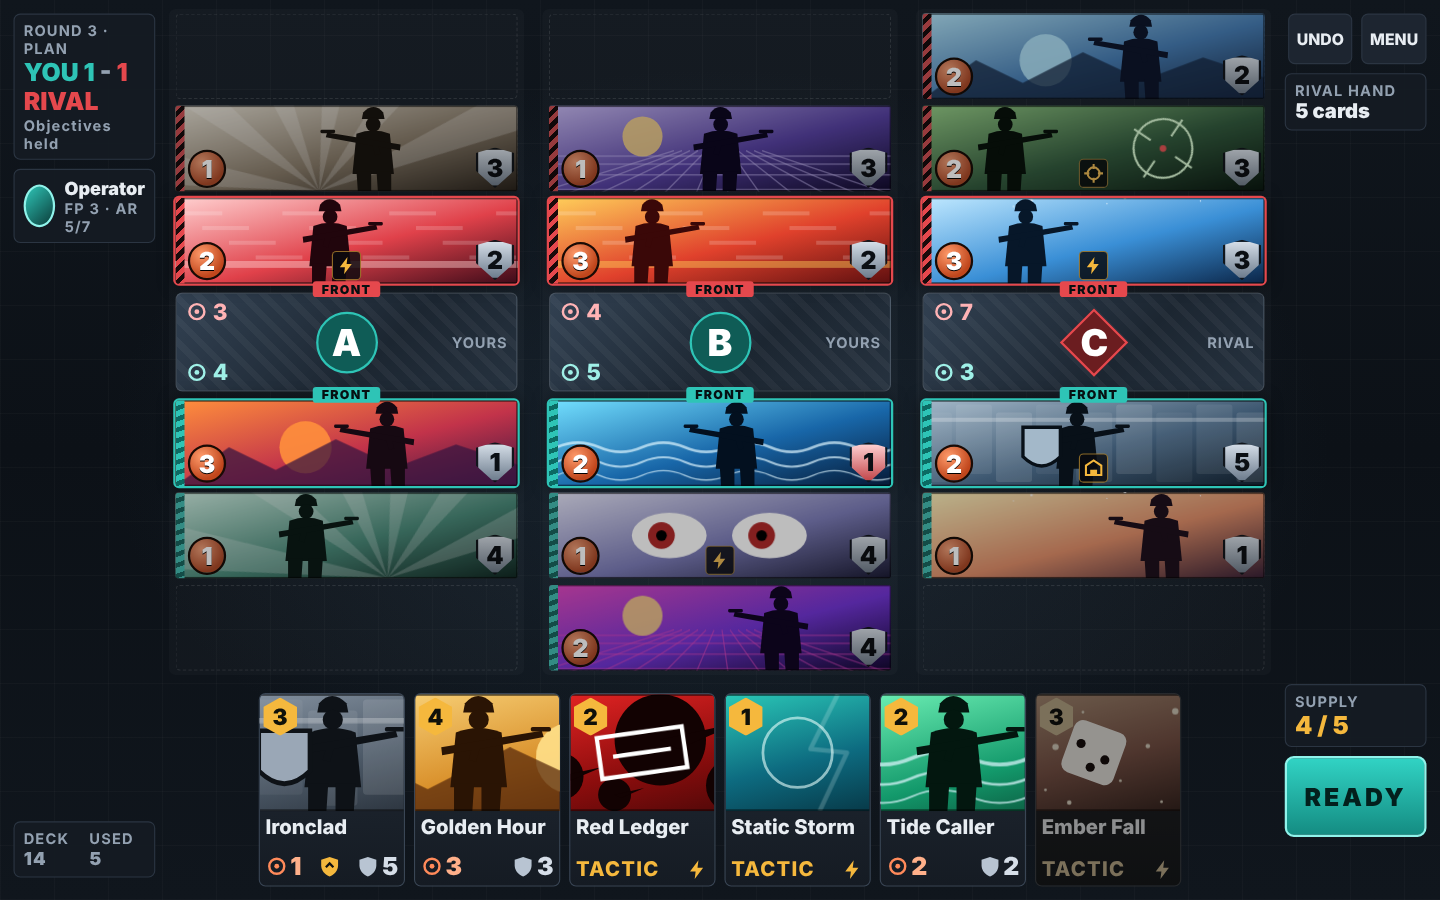
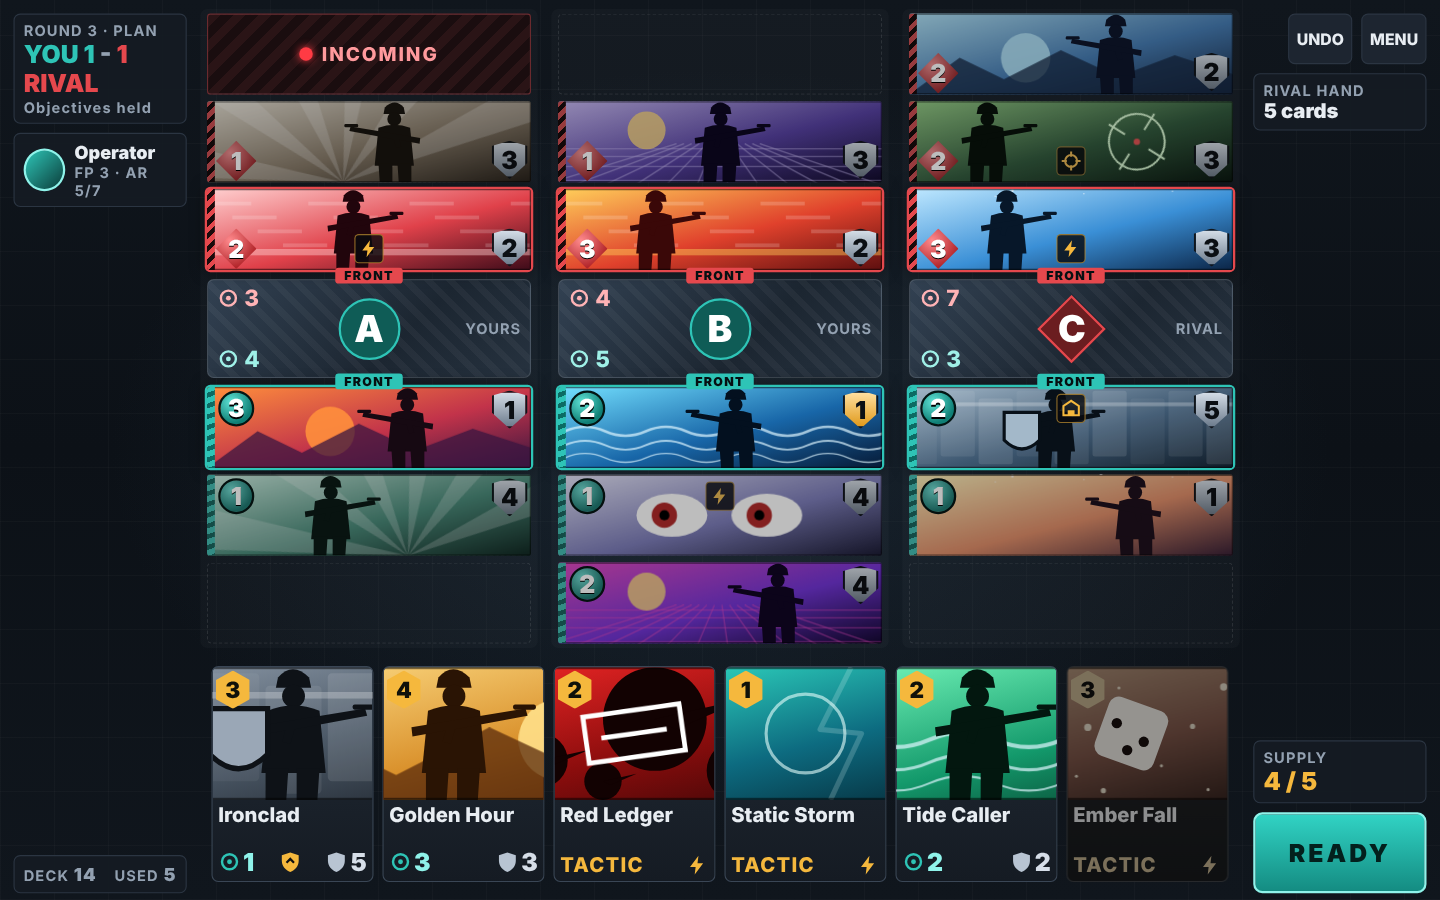
WIP: KillingCard UX mock-up and CardZone clarity pass in progress
Claude-Session: https://claude.ai/code/session_01JmVwVgoeVTdNBC1RfBf5V4

diff --git a/projects/killingcard/documentation/ux/mockup/index.html b/projects/killingcard/documentation/ux/mockup/index.html
@@ -42,7 +42,7 @@ body.chrome #stage { outline: 1px solid var(--line); }
 .slotbox .fl { position: absolute; left: 50%; transform: translateX(-50%); font: 700 11px var(--ui); letter-spacing: .12em; color: rgba(255,255,255,.28); }
 .drop { position: absolute; border-radius: 6px; border: 2px solid transparent; transition: border-color .15s, background .15s; }
 .drop.valid { border-color: rgba(46,196,182,.75); background: rgba(46,196,182,.07); cursor: pointer; }
-.drop.valid::after { content: "PLAY HERE"; position: absolute; right: 6px; bottom: 4px; font: 800 12px var(--ui); letter-spacing: .1em; color: var(--you); }
+.drop.valid::after { content: attr(data-label); position: absolute; right: 6px; bottom: 4px; font: 800 12px var(--ui); letter-spacing: .1em; color: var(--you); }
 
 /* ---- objective ---- */
 .obj { position: absolute; border-radius: 6px; overflow: hidden; border: 1px solid rgba(255,255,255,.14);
@@ -69,9 +69,10 @@ body.chrome #stage { outline: 1px solid var(--line); }
 .side-you { --sidec: var(--you); } .side-rival { --sidec: var(--rival); }
 .banner .ftab { position: absolute; left: 50%; transform: translateX(-50%); background: var(--sidec); color: #061012; font-weight: 900; letter-spacing: .1em; display: flex; align-items: center; justify-content: center; border-radius: 3px; }
 .badge { position: absolute; display: flex; align-items: center; justify-content: center; font-weight: 900; color: #fff; text-shadow: 0 1px 0 #000; z-index: 2; }
-.badge.fp { background: radial-gradient(circle at 35% 30%, #ff9b6b, #c0461c 70%); border: 2px solid #1a0b05; border-radius: 50%; }
+.badge.fp { background: radial-gradient(circle at 35% 30%, #5fe3d6, #0f7f75 70%); border: 2px solid #031614; border-radius: 50%; }
+.side-rival .badge.fp { background: radial-gradient(circle at 35% 30%, #ff8a8d, #b3262b 70%); border: none; border-radius: 0; clip-path: polygon(50% 0, 100% 50%, 50% 100%, 0 50%); }
 .badge.ar { background: linear-gradient(180deg, #d4dde7, #6d7c8d); color: #0b0f14; text-shadow: none; border: 2px solid #11161c; clip-path: polygon(50% 0, 100% 14%, 100% 58%, 50% 100%, 0 58%, 0 14%); border-radius: 0; }
-.badge.ar.hurt { background: linear-gradient(180deg, #ffd0d1, #c2474b); }
+.badge.ar.hurt { background: linear-gradient(180deg, #ffe0a0, #e09a1c); }
 .kws { position: absolute; left: 50%; transform: translateX(-50%); display: flex; gap: 3px; z-index: 2; }
 .kw { display: flex; align-items: center; justify-content: center; background: rgba(8,10,14,.82); border: 1px solid rgba(245,184,61,.55); border-radius: 4px; color: var(--amber); }
 .kw svg { width: 76%; height: 76%; }
@@ -151,6 +152,7 @@ body.chrome #stage { outline: 1px solid var(--line); }
 <body class="chrome">
 <div id="toolbar">
   <div class="grp"><span class="lbl">Screen</span><button data-size="phone">Phone 844x390</button><button data-size="desktop">Desktop 1440x900</button></div>
+  <div class="grp"><span class="lbl">Rows</span><button data-rows="3">3 per side</button><button data-rows="4">4 per side</button></div>
   <div class="grp"><span class="lbl">Hand</span><button data-hand="A">A: centred crop</button><button data-hand="B">B: banner stripe</button></div>
   <div class="grp"><span class="lbl">Demo</span>
     <button data-demo="select">Select card</button>
@@ -174,18 +176,24 @@ const LAYOUTS = {
   phone: { dev: [844, 390], W: 1168, H: 540, bw: 208, bh: 52, rowGap: 4, rows: 3, objH: 64, colGap: 20, top: 6, midGap: 6,
     handGap: 8, handH: 116, cw: 92, ch: 116, cardGap: 4, badge: 26, bfont: 18, kw: 20, ftab: [44, 12, 9],
     hex: [24, 28, 16], artH: 70, nameF: 16, statF: 18, sicon: 16, raise: 0, railFont: 16, focusW: 560, zoomW: 512 },
-  desktop: { dev: [1440, 900], W: 1280, H: 800, bw: 304, bh: 76, rowGap: 6, rows: 3, objH: 88, colGap: 28, top: 12, midGap: 8,
-    handGap: 12, handH: 180, cw: 130, ch: 172, cardGap: 8, badge: 34, bfont: 22, kw: 26, ftab: [60, 14, 11],
-    hex: [30, 34, 20], artH: 104, nameF: 18, statF: 22, sicon: 20, raise: 0, railFont: 16, focusW: 620, zoomW: 512 }
+  desktop: { dev: [1440, 900], W: 1280, H: 800, bw: 288, bh: 72, rowGap: 6, rows: 3, objH: 88, colGap: 24, top: 12, midGap: 8,
+    handGap: 12, handH: 200, cw: 144, ch: 192, cardGap: 8, badge: 32, bfont: 22, kw: 26, ftab: [60, 14, 11],
+    hex: [30, 34, 20], artH: 118, nameF: 18, statF: 22, sicon: 20, raise: 0, railFont: 16, focusW: 620, zoomW: 512 }
 };
+// 4 rows per side (Killstreak's zone_capacity 4, card-system.md 4.2): everything shrinks to fit.
+LAYOUTS.phone4 = Object.assign({}, LAYOUTS.phone, { rows: 4, bw: 176, bh: 44, rowGap: 3, objH: 54, top: 4, midGap: 4, handGap: 6, handH: 98,
+  cw: 78, ch: 98, badge: 22, bfont: 16, kw: 18, ftab: [40, 11, 8], hex: [22, 26, 15], artH: 56, nameF: 16, statF: 16, sicon: 14 });
+LAYOUTS.desktop4 = Object.assign({}, LAYOUTS.desktop, { rows: 4, bw: 256, bh: 64, rowGap: 5, objH: 80, top: 12, midGap: 8, handGap: 10, handH: 140,
+  cw: 108, ch: 140, badge: 28, bfont: 20, kw: 22, artH: 82, nameF: 16, statF: 18, sicon: 16 });
 const P = new URLSearchParams(location.search);
+let rows = P.get("rows") === "4" ? 4 : 3;
 let size = P.get("size") === "desktop" ? "desktop" : "phone";
 let handOpt = P.get("hand") === "B" ? "B" : "A";
 if (P.get("chrome") === "0") document.body.classList.remove("chrome");
 let L;
 
 function geom() {
-  const g = LAYOUTS[size];
+  const g = Object.assign({}, LAYOUTS[size + (rows === 4 ? "4" : "")]);
   const sideH = g.rows * g.bh + (g.rows - 1) * g.rowGap;
   g.rivalTop = g.top; g.objY = g.top + sideH + g.midGap; g.youTop = g.objY + g.objH + g.midGap;
   g.youBottom = g.youTop + sideH; g.handY = g.youBottom + g.handGap;
@@ -306,6 +314,7 @@ const INIT = () => ({
     { id: "C", rival: ["r5", "r6", "r7"], you: ["y6", "y7"] }
   ],
   hand: ["h1", "h2", "h3", "h4", "h5", "h6"],
+  incoming: [{ col: 0, side: "rival" }],
   sel: null
 });
 let S = INIT();
@@ -326,13 +335,14 @@ function bannerEl(id, side, w, h) {
   const art = el("div", "art", null, artSVG(c.art)); sc.appendChild(art);
   art.appendChild(el("div", "shine"));
   sc.appendChild(el("div", "spine", { width: px(Math.round(h * .1)) }));
-  const bs = g.badge, inset = 3;
+  const bs = g.badge, inset = 3, inner = side === "you" ? "top" : "bottom"; // stats sit on the inner edge (facing the objective), card-system.md 3.4
   if (c.type === "unit") {
-    sc.appendChild(el("div", "badge fp", { width: px(bs), height: px(bs), left: px(Math.round(h * .1) + inset), bottom: px(inset), fontSize: px(g.bfont) }, c.fp));
-    sc.appendChild(el("div", "badge ar" + (c.ar < c.max ? " hurt" : ""), { width: px(bs), height: px(bs + 2), right: px(inset), bottom: px(inset), fontSize: px(g.bfont) }, c.ar));
+    const fpS = side === "rival" ? bs + 4 : bs;
+    const fpb = el("div", "badge fp", { width: px(fpS), height: px(fpS), left: px(Math.round(h * .1) + inset - (fpS - bs) / 2), fontSize: px(g.bfont) }, c.fp); fpb.style[inner] = px(inset - (fpS - bs) / 2); sc.appendChild(fpb);
+    const arb = el("div", "badge ar" + (c.ar < c.max ? " hurt" : ""), { width: px(bs), height: px(bs + 2), right: px(inset), fontSize: px(g.bfont) }, c.ar); arb.style[inner] = px(inset); sc.appendChild(arb);
   }
   if (c.kws.length) {
-    const k = el("div", "kws", { bottom: px(inset) });
+    const k = el("div", "kws"); k.style[inner] = px(inset + (bs - g.kw) / 2);
     c.kws.forEach(n => k.appendChild(el("div", "kw", { width: px(g.kw), height: px(g.kw) }, ico(n, g.kw))));
     sc.appendChild(k);
   }
@@ -340,7 +350,7 @@ function bannerEl(id, side, w, h) {
   ft.style[side === "you" ? "top" : "bottom"] = px(-g.ftab[1] + 2);
   ft.style.display = "none"; ft.className += " ftab"; sc.appendChild(ft);
   sc.appendChild(el("div", "animdot"));
-  sc.appendChild(el("div", "nametag", { fontSize: px(14) }, `${c.name} <span style="color:var(--muted)">${c.type === "unit" ? "Unit" : "Tactic"}${c.kws.includes("pick") ? " - Pick" : ""}${c.kws.includes("protector") ? " - Protector" : ""}</span>`));
+  sc.appendChild(el("div", "nametag", { fontSize: px(14) }, `${c.name} <span style="color:var(--muted)">· ${c.type === "unit" ? "Unit" : "Tactic"}${c.kws.includes("pick") ? " - Pick" : ""}${c.kws.includes("protector") ? " - Protector" : ""}</span>`));
   attachPress(b, () => openFocus(id, side), null);
   b.addEventListener("mouseenter", () => { if (size !== "desktop" || b.classList.contains("ghost")) return; b._ht = setTimeout(() => hoverOn(b), 120); });
   b.addEventListener("mouseleave", () => { clearTimeout(b._ht); hoverOff(b); });
@@ -371,10 +381,11 @@ function render() {
   L = geom();
   stage.style.width = px(L.dev[0]); stage.style.height = px(L.dev[1]);
   canvas.style.width = px(L.W); canvas.style.height = px(L.H); canvas.style.transform = `scale(${L.scale})`;
-  if (!canvas._built || canvas._built !== size) { canvas.innerHTML = ""; els.clear(); buildStatic(); canvas._built = size; }
+  if (!canvas._built || canvas._built !== size + rows) { canvas.innerHTML = ""; els.clear(); buildStatic(); canvas._built = size + rows; }
   layoutUnits();
   renderHand();
   document.querySelectorAll("#toolbar [data-size]").forEach(b => b.classList.toggle("on", b.dataset.size === size));
+  document.querySelectorAll("#toolbar [data-rows]").forEach(b => b.classList.toggle("on", +b.dataset.rows === rows));
   document.querySelectorAll("#toolbar [data-hand]").forEach(b => b.classList.toggle("on", b.dataset.hand === handOpt));
 }
 
@@ -390,7 +401,7 @@ function buildStatic() {
       canvas.appendChild(sb);
     }
     const o = el("div", "obj", { left: px(x), top: px(g.objY), width: px(g.bw), height: px(g.objH) });
-    o.id = "obj" + i; canvas.appendChild(o);
+    o.id = "obj" + i; canvas.appendChild(o); attachPress(o, () => openObjective(i), null);
     const d = el("div", "drop", { left: px(x - 6), top: px(g.youTop - 4), width: px(g.bw + 12), height: px(g.youBottom - g.youTop + 8) });
     d.id = "drop" + i; d.addEventListener("click", () => { if (S.sel) playCard(S.sel, i); });
     canvas.appendChild(d);
@@ -405,7 +416,7 @@ function buildStatic() {
     <div class="box" style="display:flex;gap:8px;align-items:center"><div style="width:${f * 2.4}px;height:${f * 2.4}px;border-radius:50%;background:linear-gradient(135deg,#2ec4b6,#0b3d3a);border:2px solid #8ff3ea"></div>
       <div><div class="v" style="font-size:${f}px">Operator</div><div class="k" style="font-size:${f - 3}px">FP 3 · AR 5/7</div></div></div>`;
   canvas.appendChild(left);
-  const leftB = el("div", "rail", { left: px(12), top: px(g.handY + g.handH - (f * 3.6)), width: px(lw) });
+  const leftB = el("div", "rail", { left: px(12), bottom: px(6), width: px(lw) });
   leftB.innerHTML = `<div class="box" style="display:flex;justify-content:space-between"><span class="k" style="font-size:${f - 3}px">DECK <b class="v" style="font-size:${f}px">14</b></span><span class="k" style="font-size:${f - 3}px">USED <b class="v" style="font-size:${f}px">5</b></span></div>`;
   canvas.appendChild(leftB);
   const rx = g.x0 + g.boardW + 18;
@@ -413,7 +424,7 @@ function buildStatic() {
   right.innerHTML = `<div style="display:flex;gap:8px;justify-content:flex-end"><div class="btn-sm" style="width:${f * 3.6}px;height:${Math.max(44, f * 2.8)}px;font-size:${f - 2}px">UNDO</div><div class="btn-sm" style="width:${f * 3.6}px;height:${Math.max(44, f * 2.8)}px;font-size:${f - 2}px">MENU</div></div>
     <div class="box"><div class="k" style="font-size:${f - 3}px">RIVAL HAND</div><div class="v" style="font-size:${f + 2}px">5 cards</div></div>`;
   canvas.appendChild(right);
-  const rb = el("div", "rail", { left: px(rx), top: px(g.handY), width: px(g.W - rx - 12) });
+  const rb = el("div", "rail", { left: px(rx), bottom: px(6), width: px(g.W - rx - 12) });
   rb.innerHTML = `<div class="box"><div class="k" style="font-size:${f - 3}px">SUPPLY</div><div class="v" style="font-size:${f + 6}px;color:var(--amber)">4 / 5</div></div>
     <div class="btn-ready" style="height:${size === "phone" ? 64 : 72}px;font-size:${f + 6}px">READY</div>`;
   canvas.appendChild(rb);
@@ -444,6 +455,14 @@ function layoutUnits() {
       <div class="pw y" style="font-size:${g.bfont - 2}px">${ico("fp", g.bfont - 2, "#9ff0e7")} ${yp}</div>
       <div class="ctl" style="font-size:${size === "phone" ? 12 : 13}px">${ctl === "you" ? "YOURS" : ctl === "rival" ? "RIVAL" : "CONTESTED"}</div>`;
   });
+  canvas.querySelectorAll(".incoming").forEach(n => n.remove());
+  (S.incoming || []).forEach(inc => {
+    const col = S.cols[inc.col], k = col[inc.side].length; if (k >= g.rows) return;
+    const n = el("div", "banner incoming", { left: px(g.colX(inc.col)), top: px(g.slotY(inc.side, k)), width: px(g.bw), height: px(g.bh) },
+      `<div class="art" style="background:repeating-linear-gradient(135deg,#2a1416 0 8px,#1a0d0f 8px 16px);border:1px solid #6b2a2e;display:flex;align-items:center;justify-content:center;gap:8px;font:800 ${size === "phone" ? 16 : 17}px var(--ui);letter-spacing:.1em;color:#ff9a9d"><span style="width:12px;height:12px;border-radius:50%;background:#ff3b44;box-shadow:0 0 8px #ff3b44"></span>INCOMING</div>`);
+    attachPress(n, () => openInfo("Incoming rival unit", "The rival planned a unit here this Deploy. It is revealed and placed at Reveal, at this spot (the back of the line), unless it is a Protector, which slides to the front."), null);
+    canvas.appendChild(n);
+  });
   for (const [id, b] of els) if (!seen.has(id) && !b.classList.contains("placing")) { b.remove(); els.delete(id); }
 }
 
@@ -466,7 +485,7 @@ function handCardEl(r) {
   const hex = el("div", "hex", { width: px(g.hex[0]), height: px(g.hex[1]), fontSize: px(g.hex[2]), left: px(3), top: px(3) }, c.cost);
   let inner = "";
   const stats = c.type === "unit"
-    ? `<span class="s" style="color:#ffb08a">${ico("fp", g.sicon, "#ff8a5a")}${c.fp}</span>${c.kws.map(k => `<span class="s" style="color:var(--amber)">${ico(k, g.sicon)}</span>`).join("")}<span class="s" style="color:#d6dee8">${ico("ar", g.sicon, "#b8c4d2")}${c.ar}</span>`
+    ? `<span class="s" style="color:#8ff3ea">${ico("fp", g.sicon, "#2ec4b6")}${c.fp}</span>${c.kws.map(k => `<span class="s" style="color:var(--amber)">${ico(k, g.sicon)}</span>`).join("")}<span class="s" style="color:#d6dee8">${ico("ar", g.sicon, "#b8c4d2")}${c.ar}</span>`
     : `<span class="ttype" style="font-size:${g.statF - 4}px">TACTIC</span>${c.kws.map(k => `<span class="s" style="color:var(--amber)">${ico(k, g.sicon)}</span>`).join("")}`;
   if (handOpt === "A") {
     const vb = cropViewBox(c.art, r.w, g.artH);
@@ -522,7 +541,7 @@ function renderHand() {
   S.cols.forEach((col, i) => {
     const d = document.getElementById("drop" + i);
     const ok = !!sc && (sc.type !== "unit" || col.you.length < L.rows);
-    d.classList.toggle("valid", ok);
+    d.classList.toggle("valid", ok); d.dataset.label = sc && sc.kws.includes("protector") ? "TAKES THE FRONT" : sc && sc.type !== "unit" ? "TARGET THIS COLUMN" : "PLAY HERE";
     if (ok && sc.type === "unit") {
       const k = sc.kws.includes("protector") ? 0 : col.you.length;
       const gb = bannerEl(S.sel, "you", L.bw, L.bh); gb.classList.add("ghost");
@@ -570,7 +589,7 @@ async function playCard(id, colIdx, opts = {}) {
     col.you = [id, ...col.you.filter(x => x !== id)];
     b.style.zIndex = 5;
     layoutUnits();
-    const co = callout(`<b>Protector</b> slides to the front`, g.colX(colIdx) + g.bw + 8, g.slotY("you", 0) + 4);
+    const co = callout(`<b>Protector</b> slides to the front`, colIdx === 0 ? 12 : g.colX(colIdx) - 236, g.slotY("you", 0) + g.bh / 2 - 14);
     await wait(1400 * T); co.remove(); b.style.zIndex = "";
   }
   await wait(Math.max(0, 900 - 400) * T);
@@ -591,6 +610,7 @@ async function rivalPlays() {
   const g = L, colIdx = 0, col = S.cols[colIdx], id = "r9";
   if (col.rival.includes(id)) return;
   const b = bannerEl(id, "rival", g.bw, g.bh); b.classList.add("placing", "anim", "fresh"); b.style.transition = "none"; b.style.zIndex = 50; canvas.appendChild(b);
+  S.incoming = []; layoutUnits();
   const k = col.rival.length, ty = g.slotY("rival", k);
   await b.animate([{ left: px(g.colX(colIdx)), top: px(-g.bh - 4) }, { left: px(g.colX(colIdx)), top: px(ty) }], { duration: 420, easing: "cubic-bezier(.2,.9,.25,1.12)", fill: "forwards" }).finished;
   b.getAnimations().forEach(a => a.cancel());
@@ -601,7 +621,7 @@ async function rivalPlays() {
 async function advanceDemo() {
   const g = L, col = S.cols[1], id = col.you[0]; if (!id) return;
   const b = els.get(id); b.classList.add("dying");
-  const co = callout(`<b>${CARDS[id].name}</b> down: the column advances`, g.colX(1) + g.bw + 8, g.slotY("you", 0) + 4);
+  const co = callout(`<b>${CARDS[id].name}</b> down: column B advances`, 12, g.slotY("you", 0) + g.bh / 2 - 14);
   await wait(520); col.you.shift(); b.remove(); els.delete(id); layoutUnits();
   const nf = els.get(col.you[0]); if (nf) { nf.classList.add("anim"); nf.animate([{ transform: "scale(1.06)" }, { transform: "scale(1)" }], { duration: 300, delay: 300 }); setTimeout(() => nf.classList.remove("anim"), 1200); }
   await wait(1600); co.remove();
@@ -624,8 +644,8 @@ function pickDemo(hold) {
     <g opacity=".9"><rect x="${g.colX(ci) + 4}" y="${g.slotY("you", 0) + 4}" width="${g.bw - 8}" height="${g.bh - 8}" fill="none" stroke="#fff" stroke-width="2" stroke-dasharray="4 4"/></g>`;
   els.get(shooter).classList.add("anim");
   const fs = size === "phone" ? 14 : 15;
-  const c1 = callout(`<b>PICK</b> skips the front: lowest Armor (${CARDS[tgt].ar})`, Math.min(g.W - 330, bend + 18), (sy + ty) / 2 - 14); c1.style.fontSize = px(fs);
-  const c2 = callout(`front unit skipped`, g.colX(ci) - 150, g.slotY("you", 0) + g.bh / 2 - 12); c2.style.fontSize = px(fs - 1); c2.style.borderColor = "#fff";
+  const c1 = callout(`<b>PICK</b>: lowest Armor (${CARDS[tgt].ar})`, bend + 34, ty - 14); c1.style.fontSize = px(fs);
+  const c2 = callout(`front skipped`, bend + 34, g.slotY("you", 0) + g.bh / 2 - 14); c2.style.fontSize = px(fs - 1); c2.style.borderColor = "#fff";
   if (!hold) setTimeout(() => { fx.innerHTML = ""; c1.remove(); c2.remove(); els.get(shooter).classList.remove("anim"); }, 3200);
 }
 function callout(html, x, y) { const c = el("div", "callout", { left: px(x), top: px(y), fontSize: px(size === "phone" ? 14 : 15) }, html); canvas.appendChild(c); return c; }
@@ -641,19 +661,34 @@ function openFocus(id, side) {
   f.innerHTML = `<div class="fb anim side-${side}" style="width:${zw}px;height:${zh}px;margin:${pad}px auto 10px;">
       <div class="banner side-${side} anim" style="position:absolute;inset:0;width:${zw}px;height:${zh}px;cursor:default"><div class="scaler"><div class="art">${artSVG(c.art)}<div class="shine"></div></div>
       <div class="spine" style="width:${Math.round(zh * .08)}px"></div>
-      ${c.type === "unit" ? `<div class="badge fp" style="width:44px;height:44px;left:${Math.round(zh * .08) + 6}px;bottom:6px;font-size:26px">${c.fp}</div><div class="badge ar${c.ar < c.max ? " hurt" : ""}" style="width:44px;height:46px;right:6px;bottom:6px;font-size:26px">${c.ar}</div>` : ""}
-      ${c.kws.length ? `<div class="kws" style="bottom:6px">${c.kws.map(k => `<div class="kw" style="width:34px;height:34px">${ico(k, 34)}</div>`).join("")}</div>` : ""}
+      ${c.type === "unit" ? `<div class="badge fp" style="width:44px;height:44px;left:${Math.round(zh * .08) + 6}px;${side === "you" ? "top" : "bottom"}:6px;font-size:26px">${c.fp}</div><div class="badge ar${c.ar < c.max ? " hurt" : ""}" style="width:44px;height:46px;right:6px;${side === "you" ? "top" : "bottom"}:6px;font-size:26px">${c.ar}</div>` : ""}
+      ${c.kws.length ? `<div class="kws" style="${side === "you" ? "top" : "bottom"}:11px">${c.kws.map(k => `<div class="kw" style="width:34px;height:34px">${ico(k, 34)}</div>`).join("")}</div>` : ""}
       <div class="animdot"></div></div></div></div>
     <div style="padding:0 ${pad}px ${pad}px">
       <div style="display:flex;align-items:baseline;gap:10px;flex-wrap:wrap"><h3 style="font-size:${fz + 8}px">${c.name}</h3>
         <span class="tl" style="font-size:${fz - 1}px">${c.type === "unit" ? "UNIT" : "TACTIC"} · ${side === "you" ? "YOURS" : "RIVAL"}${c.cost ? ` · COST ${c.cost}` : ""}</span></div>
-      ${c.type === "unit" ? `<div class="row" style="margin:8px 0;font-size:${fz}px"><span class="chip">${ico("fp", 20, "#ff8a5a")} Firepower ${c.fp}</span><span class="chip">${ico("ar", 20, "#b8c4d2")} Armor ${c.ar}/${c.max}</span></div>` : ""}
+      ${c.type === "unit" ? `<div class="row" style="margin:8px 0;font-size:${fz}px"><span class="chip">${ico("fp", 20, side === "you" ? "#2ec4b6" : "#ff6b6f")} Firepower ${c.fp}</span><span class="chip">${ico("ar", 20, "#b8c4d2")} Armor ${c.ar}/${c.max}</span></div>` : ""}
       <div class="rules" style="font-size:${fz}px">${c.text || "No effect."}</div>
       <div class="tl" style="margin-top:8px;font-size:${fz - 3}px">Art: alternate art 1 of 3 · tap anywhere to close</div>
     </div>`;
   Object.assign(f.style, { width: px(W), left: px((g.W - W) / 2), top: px(Math.max(8, (g.H - (zh + 2 * pad + 150)) / 2)), display: "block" });
   s.style.display = "block";
   f.onclick = closeFocus;
+}
+function openInfo(title, text) {
+  const g = L, f = document.getElementById("focus"), s = document.getElementById("scrim"), fz = size === "phone" ? 16 : 17;
+  f.innerHTML = `<div style="padding:20px"><h3 style="font-size:${fz + 6}px">${title}</h3><div class="rules" style="font-size:${fz}px;margin-top:6px">${text}</div><div class="tl" style="margin-top:8px;font-size:${fz - 3}px">tap anywhere to close</div></div>`;
+  Object.assign(f.style, { width: px(460), left: px((g.W - 460) / 2), top: px(g.H / 2 - 90), display: "block" }); s.style.display = "block"; f.onclick = closeFocus;
+}
+function openObjective(i) {
+  const g = L, col = S.cols[i], f = document.getElementById("focus"), s = document.getElementById("scrim");
+  const rp = power(col.rival), yp = power(col.you), fz = size === "phone" ? 16 : 17;
+  f.innerHTML = `<div style="padding:20px"><h3 style="font-size:${fz + 8}px">Objective ${col.id}</h3>
+    <div class="row" style="margin:8px 0;font-size:${fz}px"><span class="chip" style="color:#9ff0e7">${ico("fp", 20)} Your firepower ${yp}</span><span class="chip" style="color:#ffb3b5">${ico("fp", 20)} Rival firepower ${rp}</span></div>
+    <div class="rules" style="font-size:${fz}px">${yp > rp ? "You hold it" : rp > yp ? "The rival holds it" : "Contested"}. Units in this column fight front to front each round; the side holding the objective at round end scores it.<br><span style="color:var(--muted)">(Placeholder rule text: final wording comes from card-system.md.)</span></div>
+    <div class="tl" style="margin-top:8px;font-size:${fz - 3}px">tap anywhere to close</div></div>`;
+  Object.assign(f.style, { width: px(460), left: px((g.W - 460) / 2), top: px(g.objY - 40), display: "block" });
+  s.style.display = "block"; f.onclick = closeFocus;
 }
 function closeFocus() { document.getElementById("focus").style.display = "none"; document.getElementById("scrim").style.display = "none"; }
 
@@ -681,7 +716,7 @@ function compareSheet() {
   src.style.overflow = "hidden";
   cv.appendChild(src);
   cv.appendChild(el("div", "cap", { position: "absolute", left: px(pad + 530), top: px(88), width: px(g.W - pad * 2 - 540), fontSize: px(15) },
-    `<b style="color:var(--text)">A</b> shows ${Math.round(vb[2] / 512 * 100)}% of the banner width at ${(g.artH / 128).toFixed(2)}x source scale. <b style="color:var(--text)">B</b> shows 100% at ${(g.cw / 4 / 128).toFixed(2)}x: the stripe is ${Math.round(g.cw / 4)} px tall (${size === "phone" ? (g.cw / 4 * .722).toFixed(0) + " pt on the iPhone" : Math.round(g.cw / 4 * 1.125) + " physical px"}). The board banner is ${g.bw}x${g.bh} px, so A's crop is ${(g.artH / g.bh).toFixed(2)}x the board scale and the placement morph is a pure un-crop.`));
+    `<b style="color:var(--text)">A</b> shows ${Math.round(vb[2] / 512 * 100)}% of the banner width at ${(g.artH / 128).toFixed(2)}x source scale. <b style="color:var(--text)">B</b> shows 100% at ${(g.cw / 4 / 128).toFixed(2)}x: the stripe is ${Math.round(g.cw / 4)} px tall (${size === "phone" ? (g.cw / 4 * .722).toFixed(0) + " pt on the iPhone" : Math.round(g.cw / 4 * 1.125) + " physical px"}). The board banner is ${g.bw}x${g.bh} px, so A's crop is ${(g.artH / g.bh).toFixed(2)}x the board scale: the placement morph is an un-crop (the visible slice stays where it is in the art) plus a small shrink.`));
   const rowY = 232;
   let x = pad;
   for (const opt of ["A", "B"]) {
@@ -703,6 +738,7 @@ function compareSheet() {
 document.getElementById("toolbar").addEventListener("click", async e => {
   const b = e.target.closest("button"); if (!b) return;
   if (b.dataset.size) { size = b.dataset.size; S = INIT(); resetCards(); render(); }
+  if (b.dataset.rows) { rows = +b.dataset.rows; S = INIT(); resetCards(); render(); }
   if (b.dataset.hand) { handOpt = b.dataset.hand; renderHand(); }
   const d = b.dataset.demo; if (!d) return;
   closeFocus(); document.getElementById("compare").style.display = "none";
